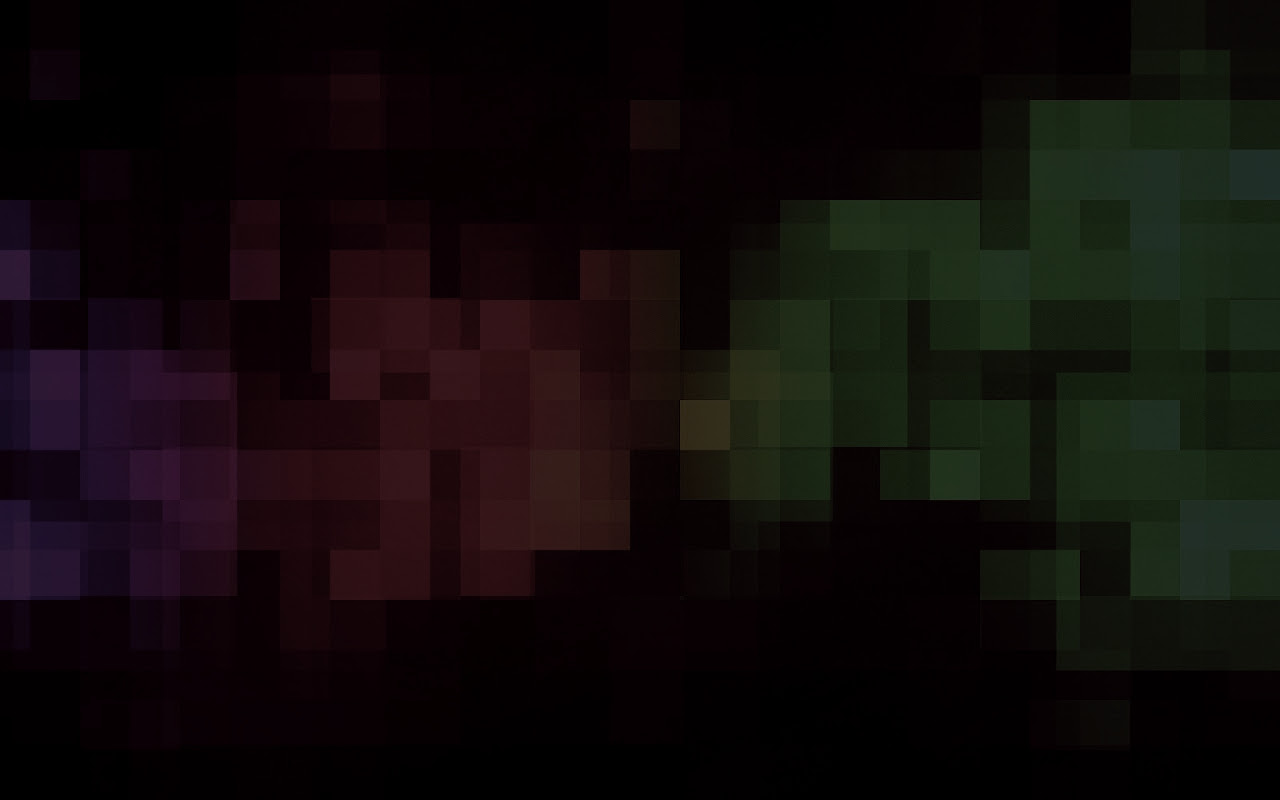
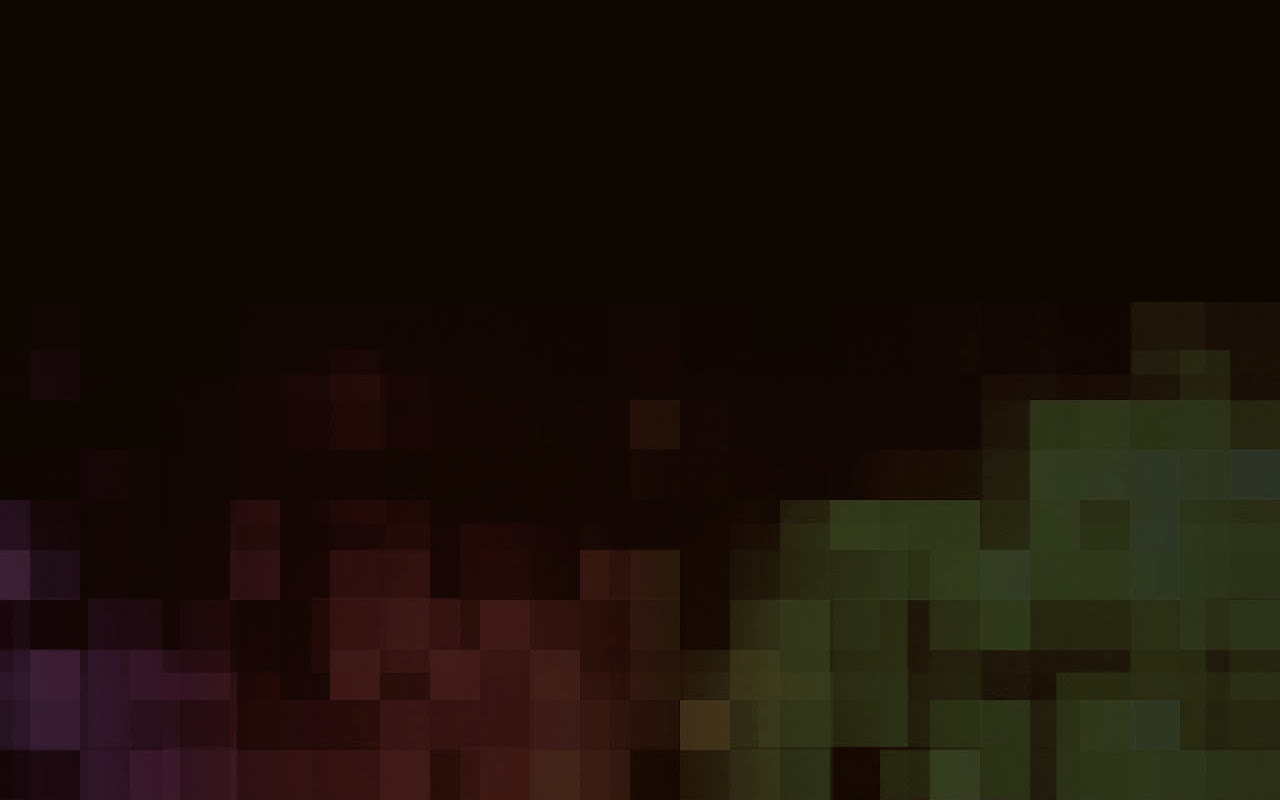
Updated beta

diff --git a/beta/css/site.css b/beta/css/site.css
@@ -2,7 +2,8 @@
 
 /* general / misc */
 body {
-    background-color: #251921;
+    background: url("../img/bg-triangular.png"), repeat;
+    /* background-color: #251921; */
     color: #eee2d2;
     font-family: 'Noto Sans', sans-serif;
 }
@@ -30,11 +31,11 @@ div.navbar ul.nav a {
 #header {
     background-color: black;
     background-image: url("../img/bg-pixelated.jpg");
-    background-position: 0% 7%;
+    background-position: 0% 100%;
     background-size: cover;
-    height: 23em;
+    height: 16em;
     margin-top: 50px;
-    padding: 5em 0em 0em 1.5em;
+    padding: 3em 0em 0em 1.5em;
 }
 
 #logo {
@@ -42,7 +43,12 @@ div.navbar ul.nav a {
 }
 
 @media (min-width: 568px) {
-    #header { padding: 4em 0 0 2em; }
+    #header {
+	background-position: 0% 50%;
+	height: 20em;
+	padding: 4em 0 0 2em;
+    }
+
     #logo   { width: 480px; }
 }
 

diff --git a/beta/index.html b/beta/index.html
@@ -46,6 +46,13 @@
     <!-- services -->
     <div class="container">
       <div class="row">
+	<div class="col-md-12">
+	  <div class="info" style="margin-bottom: 3em;">
+	    <h3><span class="info-title">Services</span></h3>
+	  </div>
+	</div>
+      </div>
+      <div class="row">
 	<div class="col-md-4">
 	  <div id="development" class="service">
 	    <img src="img/service-development.png" width="140" alt="Development service icon"/>
